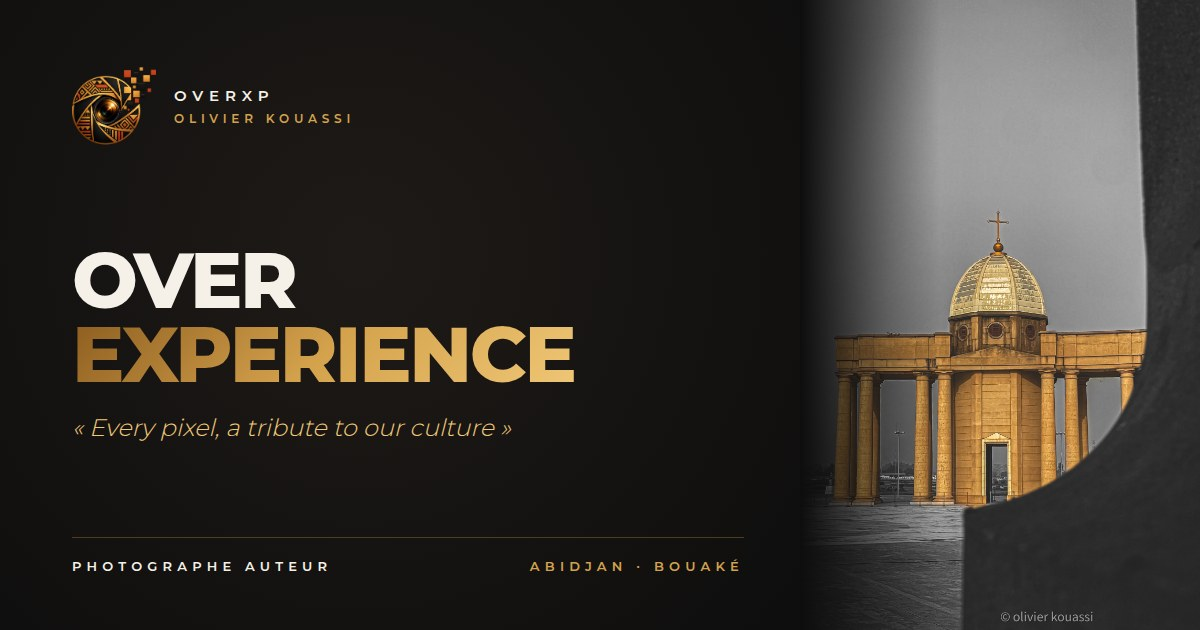
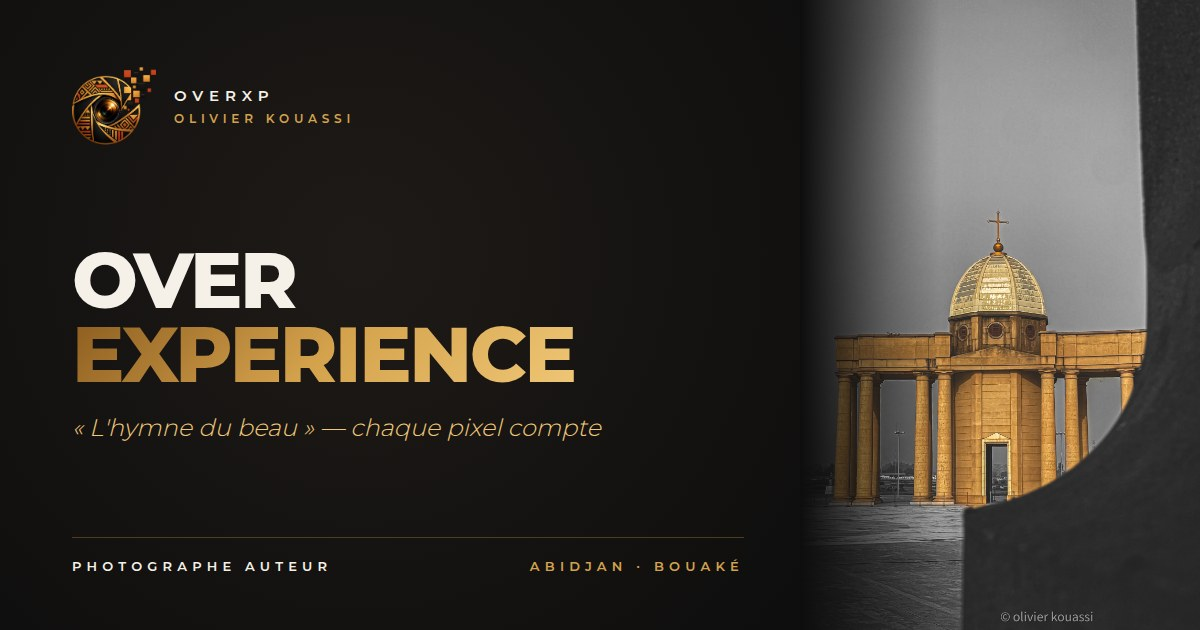
Branding « L'hymne du beau » : la recherche du beau plutôt qu'une culture précise
- Signature de marque centralisée dans src/data/brand.ts (footer, menu mobile,
  hero, contact, SEO, Schema.org slogan, image de partage)
- Réécriture des textes centrés sur la culture akan / africaine : manifeste,
  piliers (Culture → Beauté), chiffres, œuvres, contact, réservation
- Filtre Culture → Patrimoine dans la galerie

Changed region(s): [[0.0617, 0.6635, 0.4933, 0.6937]]

diff --git a/src/data/booking.ts b/src/data/booking.ts
@@ -3,8 +3,8 @@ export const SERVICES = [
   {
     id: 'mariages',
     icon: 'favorite',
-    title: 'Mariages & cérémonies traditionnelles',
-    text: "Dots solennelles, fastes dynastiques, parures royales akan et archives familiales d'exception.",
+    title: 'Mariages & cérémonies',
+    text: "Cérémonies, réceptions et instants d'émotion, des préparatifs au dernier regard.",
     meta: 'Couverture complète',
   },
   {
@@ -18,13 +18,13 @@ export const SERVICES = [
     id: 'diplomes',
     icon: 'school',
     title: 'Séances diplômes & familles',
-    text: 'Consécration académique, portraits de lignée et célébrations multigénérationnelles immortalisées avec noblesse.',
+    text: 'Consécration académique, portraits de famille et célébrations multigénérationnelles, immortalisées avec élégance.',
     meta: 'Session sur mesure',
   },
   {
     id: 'exterieur',
     icon: 'landscape',
-    title: 'Photographie extérieur & patrimoine',
+    title: 'Photographie extérieur & architecture',
     text: "Lagunes d'Abidjan, cité historique de Grand-Bassam, rivages d'Assinie et architectures modernes.",
     meta: 'Extérieur / site dédié',
   },

diff --git a/src/data/brand.ts b/src/data/brand.ts
@@ -1,0 +1,12 @@
+/**
+ * Signature de marque OverXP : la recherche du beau, pixel par pixel.
+ * Universelle : elle ne se rattache à aucune culture en particulier.
+ */
+export const BRAND = {
+  /** Signature courte (logo, footer, partage) */
+  tagline: "L'hymne du beau",
+  /** Phrase de marque */
+  signature: 'Chaque pixel, un hymne au beau.',
+  /** Présentation en une phrase */
+  pitch: "Direction photographique et art de l'image : Olivier Kouassi poursuit le beau dans chaque lumière, chaque regard, chaque pixel.",
+} as const;

diff --git a/src/data/categories.ts b/src/data/categories.ts
@@ -5,7 +5,7 @@ export const CATEGORIES = {
   mode: 'Mode',
   architecture: 'Architecture',
   urbain: 'Urbain',
-  culture: 'Culture',
+  patrimoine: 'Patrimoine',
   evenements: 'Événements',
   produits: 'Produits',
 } as const;
